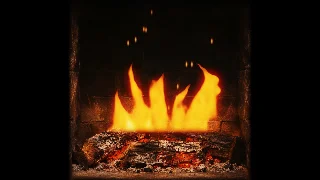
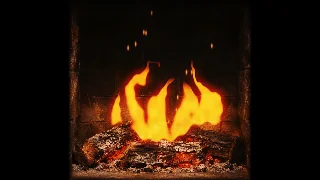
Refine Fireplace audio reactivity and flame placement
- Let beat attacks and sub-bass drive the flames and embers
- Raise flame roots behind the log silhouettes for natural occlusion

diff --git a/src/modules/FireplaceModule.ts b/src/modules/FireplaceModule.ts
@@ -20,44 +20,51 @@ float turbulence(vec2 p){return noise(p)*.65+noise(p*2.03)*.25+noise(p*4.07)*.1;
 void main(){
  // Fit the hearth into either orientation without stretching the flames.
  vec2 p=(vUv-.5)*uResolution/min(uResolution.x,uResolution.y)*2.;
- float t=uTime,energy=clamp((uBass*.55+uRms*.3+uBeat*.15)*uReactivity,0.,1.5);
+ float t=uTime;
+ float energy=clamp((uBass*.85+uSub*.25+uRms*.35)*uReactivity,0.,1.5);
+ float attack=clamp(uBeat*uReactivity,0.,1.5);
  float flicker=.92+.08*sin(t*7.1)+.04*sin(t*11.7);
  vec2 uv=clamp(p*.5+.5,0.,1.);
  vec3 hearth=texture2D(uHearth,uv).rgb;
  float border=1.-smoothstep(.94,1.02,max(abs(p.x),abs(p.y)));
- vec3 col=hearth*(.78+flicker*.28+energy*.18)*border;
- float y=p.y+.48;
+ vec3 col=hearth*(.78+flicker*.28+energy*.22+attack*.08)*border;
+ float y=p.y+.70;
+ // Match the upper silhouettes of the side logs and lower front log.
+ // Flame roots sit behind this contour, so wood occludes the fire naturally.
+ float logTop=-.56+.19*smoothstep(.12,.45,abs(p.x))+.018*sin(p.x*39.);
+ float exposed=smoothstep(logTop-.012,logTop+.025,p.y);
  // Shared rising turbulence distorts five independently moving flame tongues.
- if(abs(p.x)<.83 && y>0. && y<1.4){
+ if(abs(p.x)<.83 && y>0. && y<1.8){
   float n=turbulence(vec2(p.x*6.,y*4.-t*1.8));
   float detail=noise(vec2(p.x*21.,y*12.-t*3.5));
   float heat=0.;
   for(int i=0;i<5;i++){
    float k=float(i),seed=hash(vec2(k,3.));
-   float h=(.55+seed*.45+energy*.24)*(.86+.14*sin(t*(1.8+seed)+k*2.));
-   float rise=y/h;
+   float h=(.65+seed*.40+energy*.38+attack*.30)*(.86+.14*sin(t*(1.8+seed)+k*2.));
+   float localY=max(0.,y-.045*mod(k,2.));
+   float rise=localY/h;
    float center=(k-2.)*.22+sin(y*7.-t*(1.6+seed)+k)*y*.12+(n-.5)*y*.38;
-   float width=(.13+seed*.05)*max(.01,1.-rise);
+   float width=(.13+seed*.05+energy*.018+attack*.025)*max(.01,1.-rise);
    float body=1.-abs(p.x-center)/width+(n-.5)*1.8;
    float tongue=smoothstep(-.3,.65,body)*(1.-smoothstep(.55,1.05,rise));
    heat+=tongue*(.55+.45*detail);
   }
-  float root=smoothstep(0.,.09,y);
+  float root=smoothstep(0.,.07,y)*exposed;
   float wisps=smoothstep(.05,.45,heat);
   vec3 fire=mix(vec3(.85,.035,.001),vec3(2.2,.48,.012),clamp(heat,0.,1.));
   fire=mix(fire,vec3(2.7,1.25,.19),smoothstep(.9,1.9,heat));
-  col+=fire*wisps*root*flicker;
+  col+=fire*wisps*root*flicker*(1.+energy*.12+attack*.22);
   // Twelve seeded sparks, independent of framerate and without a particle pool.
   if(uEmbers>0.) for(int i=0;i<12;i++){
    float k=float(i),seed=hash(vec2(k,7.)),age=fract(t*(.13+seed*.12)+seed);
-   vec2 pos=vec2((seed-.5)*1.05+sin(age*9.+k)*age*.13,-.46+age*1.45);
+   vec2 pos=vec2((seed-.5)*1.05+sin(age*9.+k)*age*.13,-.65+age*1.65);
    vec2 d=(p-pos)/vec2(.007,.018);
-   col+=vec3(1.8,.42,.025)*exp(-dot(d,d))*sin(age*PI)*(0.35+uTreble*uReactivity)*uEmbers;
+   col+=vec3(1.8,.42,.025)*exp(-dot(d,d))*sin(age*PI)*(0.35+uTreble*uReactivity+attack*.8)*uEmbers*exposed;
   }
  }
  // Texture supplies real bark and ash detail; warm pixels receive ember pulses.
  float coals=(1.-smoothstep(-.55,-.42,p.y))*smoothstep(.03,.25,hearth.r-hearth.g);
- col+=hearth*vec3(.7,.25,.06)*coals*(.65+energy)*flicker*border;
+ col+=hearth*vec3(.7,.25,.06)*coals*(.65+energy+attack*.7)*flicker*border;
  col*=uIntensity*(1.-smoothstep(.8,2.1,length(p))*.75);
  gl_FragColor=vec4(col,1.);
 }`;
